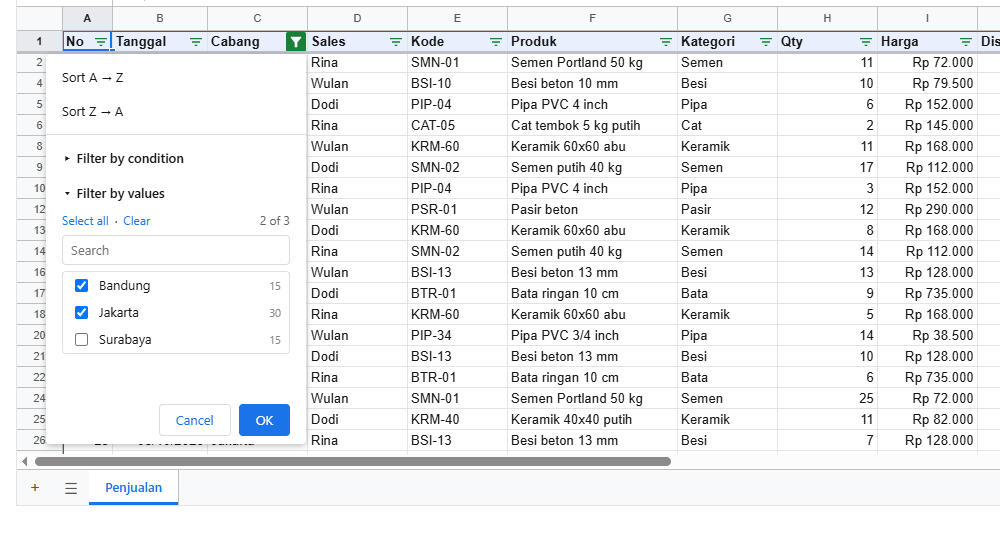
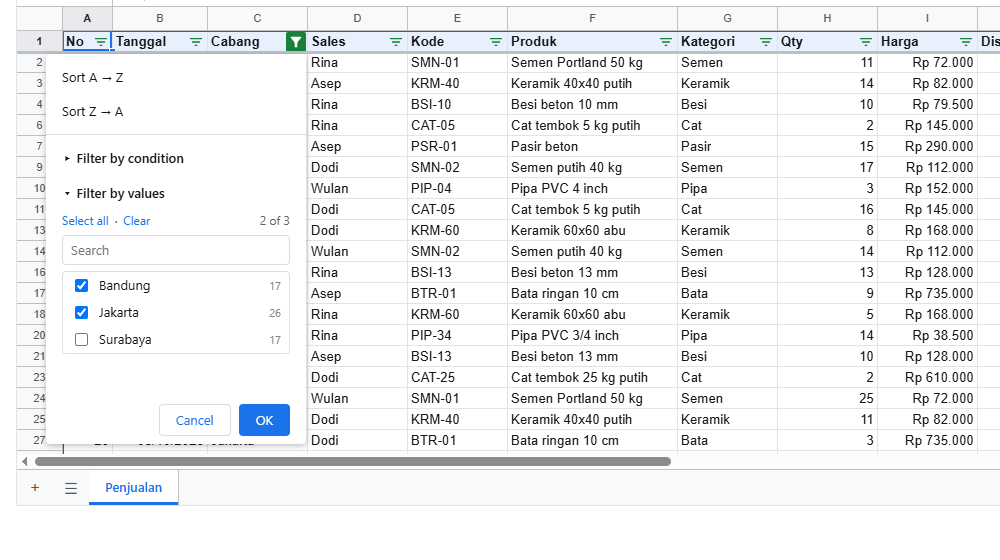
docs: outputs and screenshots from the balanced sales data

diff --git a/docs/05-rumus.md b/docs/05-rumus.md
@@ -176,12 +176,12 @@ console.log('jumlah 5 minggu = total omzet:', lap.value('E13'), '| 1 Oktober 202
 
 <!-- hasil: 05-laporan.js -->
 ```text
-Jakarta   omzet 295305000 | trx 150 | rata2 1968700 | max 12495000 | pangsa 47.6% | #1 A
-Bandung   omzet 143583350 | trx 75 | rata2 1914445 | max 9760000 | pangsa 23.1% | #3 C
-Surabaya  omzet 181564800 | trx 75 | rata2 2420864 | max 12495000 | pangsa 29.3% | #2 B
+Jakarta   omzet 264052400 | trx 129 | rata2 2046918 | max 12495000 | pangsa 42.6% | #1 A
+Bandung   omzet 187095250 | trx 86 | rata2 2175526 | max 12495000 | pangsa 30.2% | #2 B
+Surabaya  omzet 169305500 | trx 85 | rata2 1991829 | max 11760000 | pangsa 27.3% | #3 B
 Total     omzet 620453150 | trx 300 | rata2 2068177 | max 12495000 | pangsa 100.0% 
 Cabang terbaik    : Jakarta
-Omzet kedua       : Surabaya
+Omzet kedua       : Bandung
 Diskon diberikan  : 46 transaksi
 Qty terbanyak     : 27 x Semen Portland 50 kg
 Semua cabang      : Jakarta, Bandung, Surabaya
@@ -283,16 +283,16 @@ console.log('filter tanpa Surabaya       :', rekap.value('B10'), '(9) |', rekap.
 <!-- hasil: 05-nama-subtotal.js -->
 ```text
 rumus             : =SUMIFS(Omzet, Cabang, "Bandung")
-omzet Bandung     : 143583350 | semen 97448800
+omzet Bandung     : 187095250 | semen 97448800
 komisi (belum ada): #NAME? <- nama Komisi belum dibuat
-komisi            : 2153750 <- rumus jalan begitu namanya ada
+komisi            : 2806429 <- rumus jalan begitu namanya ada
 ganti nama        : =SUMIFS(Total, Cabang, "Bandung")
-baris baru masuk  : 146483350 (+2.900.000)
+baris baru masuk  : 189995250 (+2.900.000)
 semua nama        : Cabang = Penjualan!C2:C302, Kategori = Penjualan!G2:G302, Total = Penjualan!K2:K302, Komisi = Laporan!E1
 nama tidak boleh  : "\"A1\" is the address of a cell, not a name" | "there is a named range \"Total\" already"
 SUBTOTAL vs SUM   : 140157500 vs 280315000 <- SUM menghitung subtotal dua kali
-Bandung semen disembunyikan : 140157500 (9) | 127759100 (109)
-filter tanpa Surabaya       : 114438500 (9) | 114438500 (109)
+Bandung semen disembunyikan : 140157500 (9) | 111629100 (109)
+filter tanpa Surabaya       : 104075000 (9) | 104075000 (109)
 ```
 <!-- /hasil -->
 

diff --git a/docs/07-data.md b/docs/07-data.md
@@ -63,13 +63,13 @@ console.log('filter dihapus  :', jual.value('N1'), 'baris');
 
 <!-- hasil: 07-sort-filter.js -->
 ```text
-total terbesar  : 48:Jak:12495000  218:Sur:12495000  112:Jak:11760000  282:Sur:11760000  176:Jak:11025000
+total terbesar  : 48:Ban:12495000  218:Jak:12495000  112:Sur:11760000  282:Ban:11760000  176:Jak:11025000
 rumus K2        : =H2*I2*(1-J2) (baris transaksi 48)
-cabang, lalu total: 27:Ban:9760000  91:Ban:8692500  155:Ban:8540000  219:Ban:7930000  283:Ban:7320000
-dua kali undo   : 1:Jak:752400  2:Sur:1148000  3:Ban:795000  4:Jak:912000  5:Jak:290000
-pilihan cabang  : [{"text":"Bandung","count":75},{"text":"Jakarta","count":150},{"text":"Surabaya","count":75}]
-hanya Jakarta   : 150 baris | omzet 295305000
-+ total > 5 jt  : 11 baris | omzet 99519000
+cabang, lalu total: 48:Ban:12495000  282:Ban:11760000  240:Ban:10290000  27:Ban:9760000  181:Ban:8379000
+dua kali undo   : 1:Jak:752400  2:Ban:1148000  3:Jak:795000  4:Sur:912000  5:Jak:290000
+pilihan cabang  : [{"text":"Bandung","count":86},{"text":"Jakarta","count":129},{"text":"Surabaya","count":85}]
+hanya Jakarta   : 129 baris | omzet 264052400
++ total > 5 jt  : 11 baris | omzet 93665000
 diskon semen/besi: 16 baris | omzet 21010000
 contoh baris    : 1 Semen 0.05 | 28 Semen 0.05 | 47 Besi 0.1 | 55 Semen 0.05
 filter disimpan : 1 kolom, di props sheet
